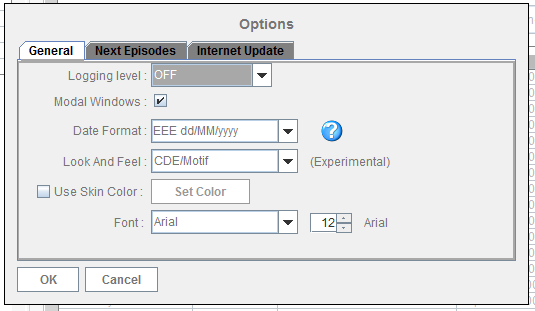
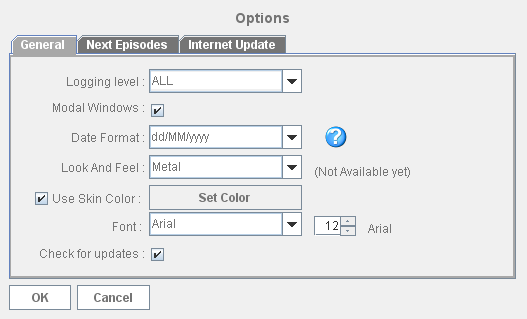
Updated generl options help (closes issue 20)

Changed region(s): [[0.0, 0.0, 1.0, 1.0], [0.9715, 0.0579, 1.0, 0.1158]]

diff --git a/src/help/html/general_options.html b/src/help/html/general_options.html
@@ -38,6 +38,10 @@
           <b>Font </b> -
           Select the font and the size to use in the application. A preview of the current selected font is displayed
         </li>
+        <li>
+          <b>Check for updates </b> -
+          If the application should check for updates on start up.
+        </li>
       </ul>
   </td></tr>
 </table>
